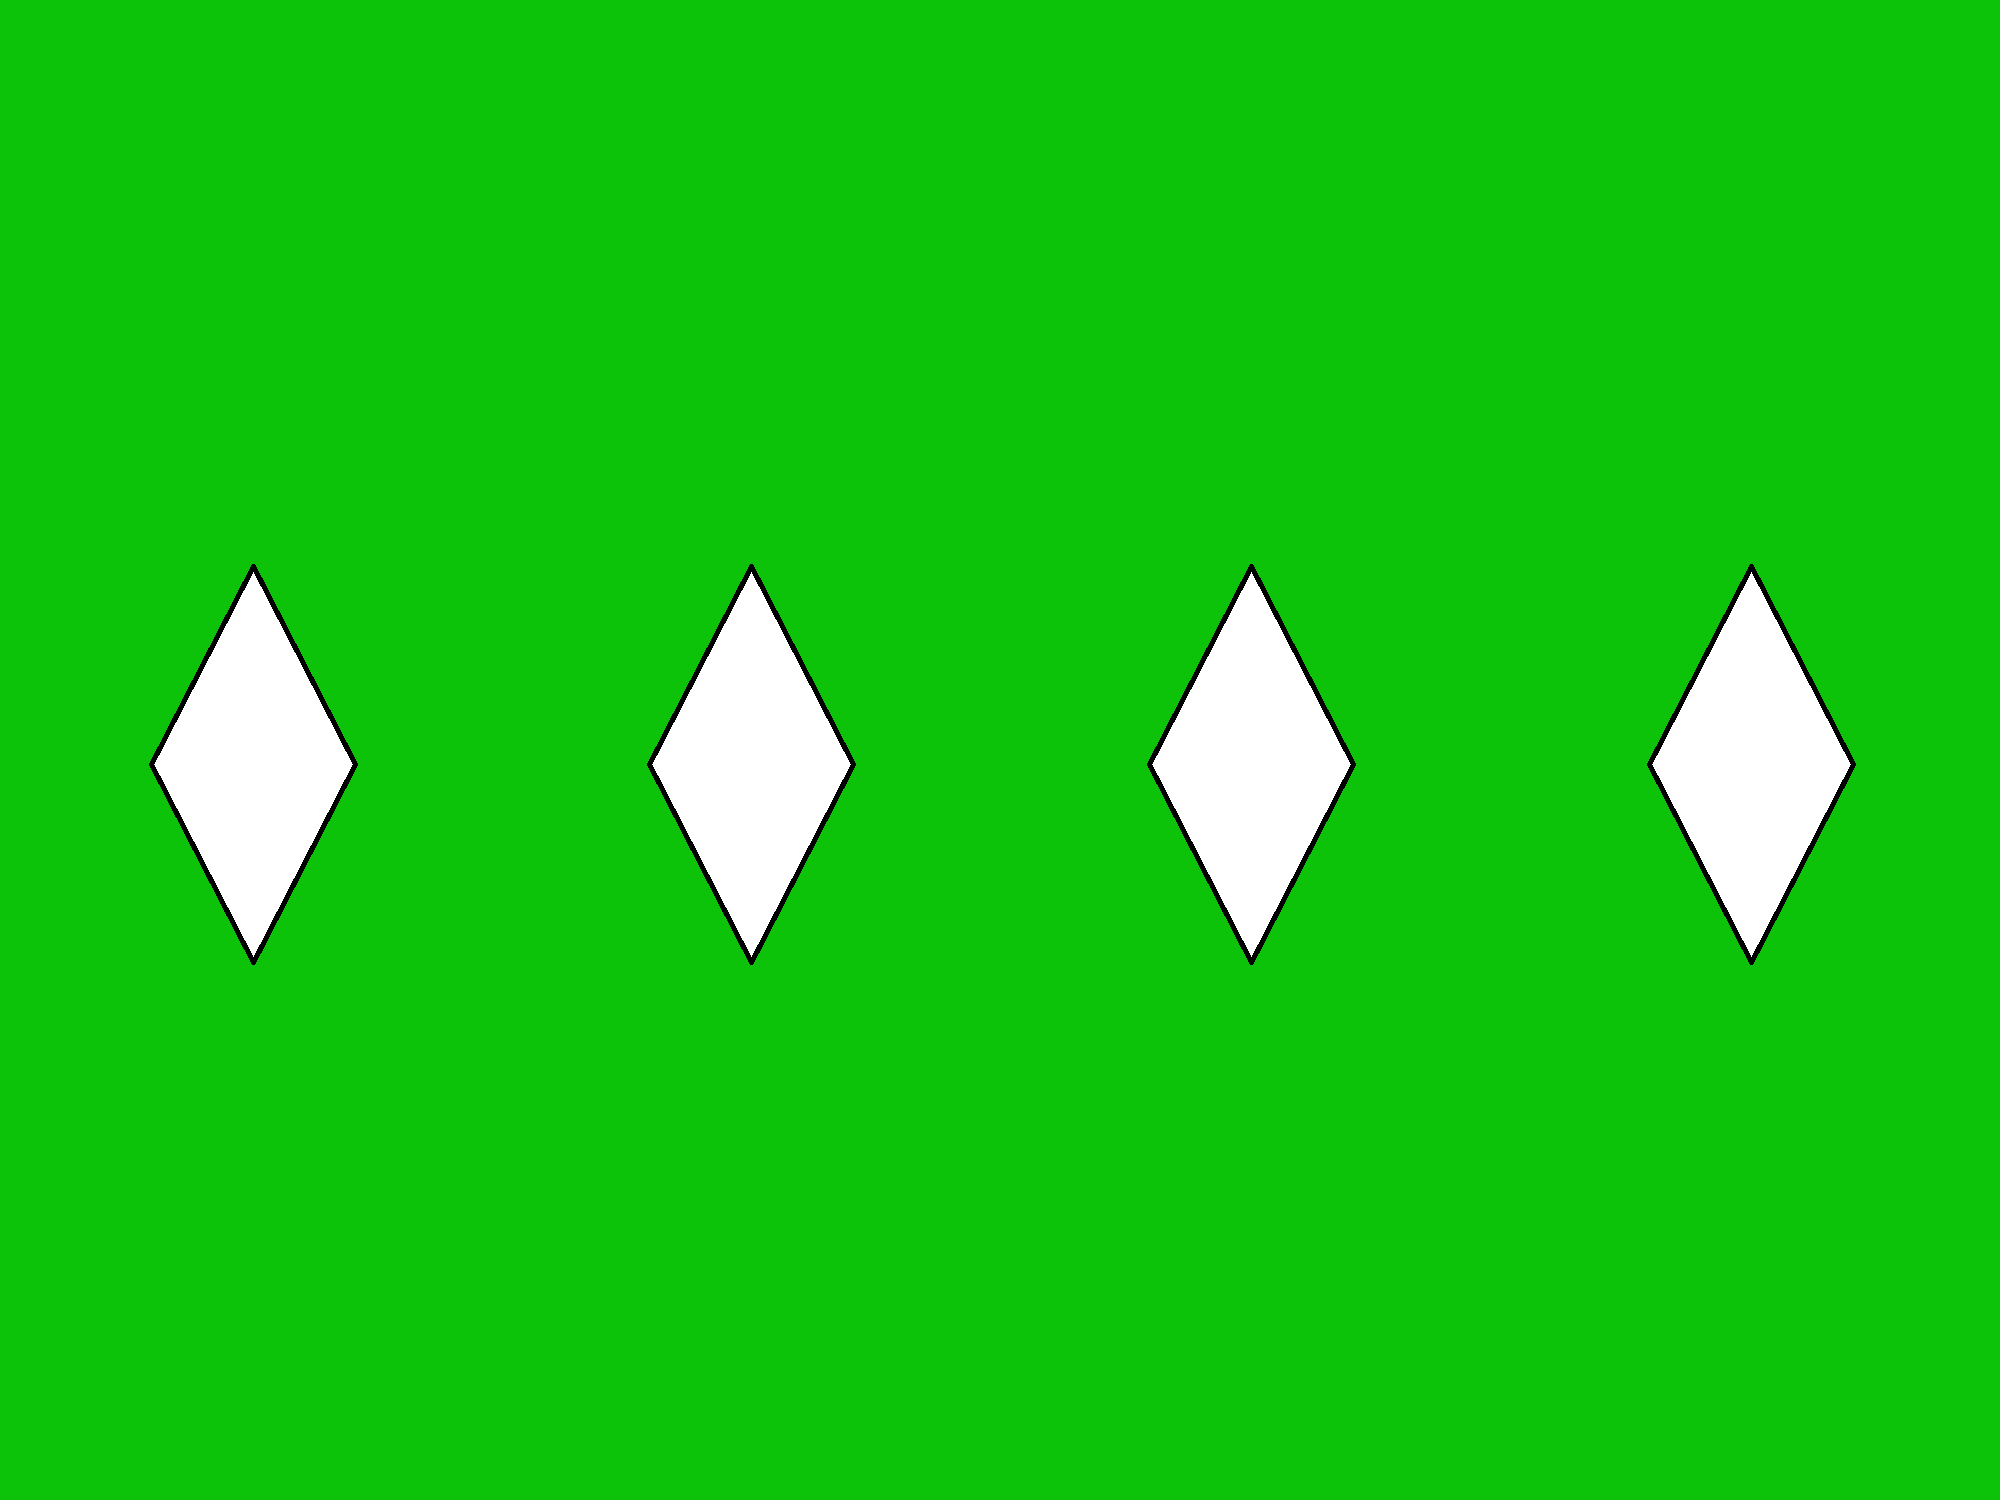
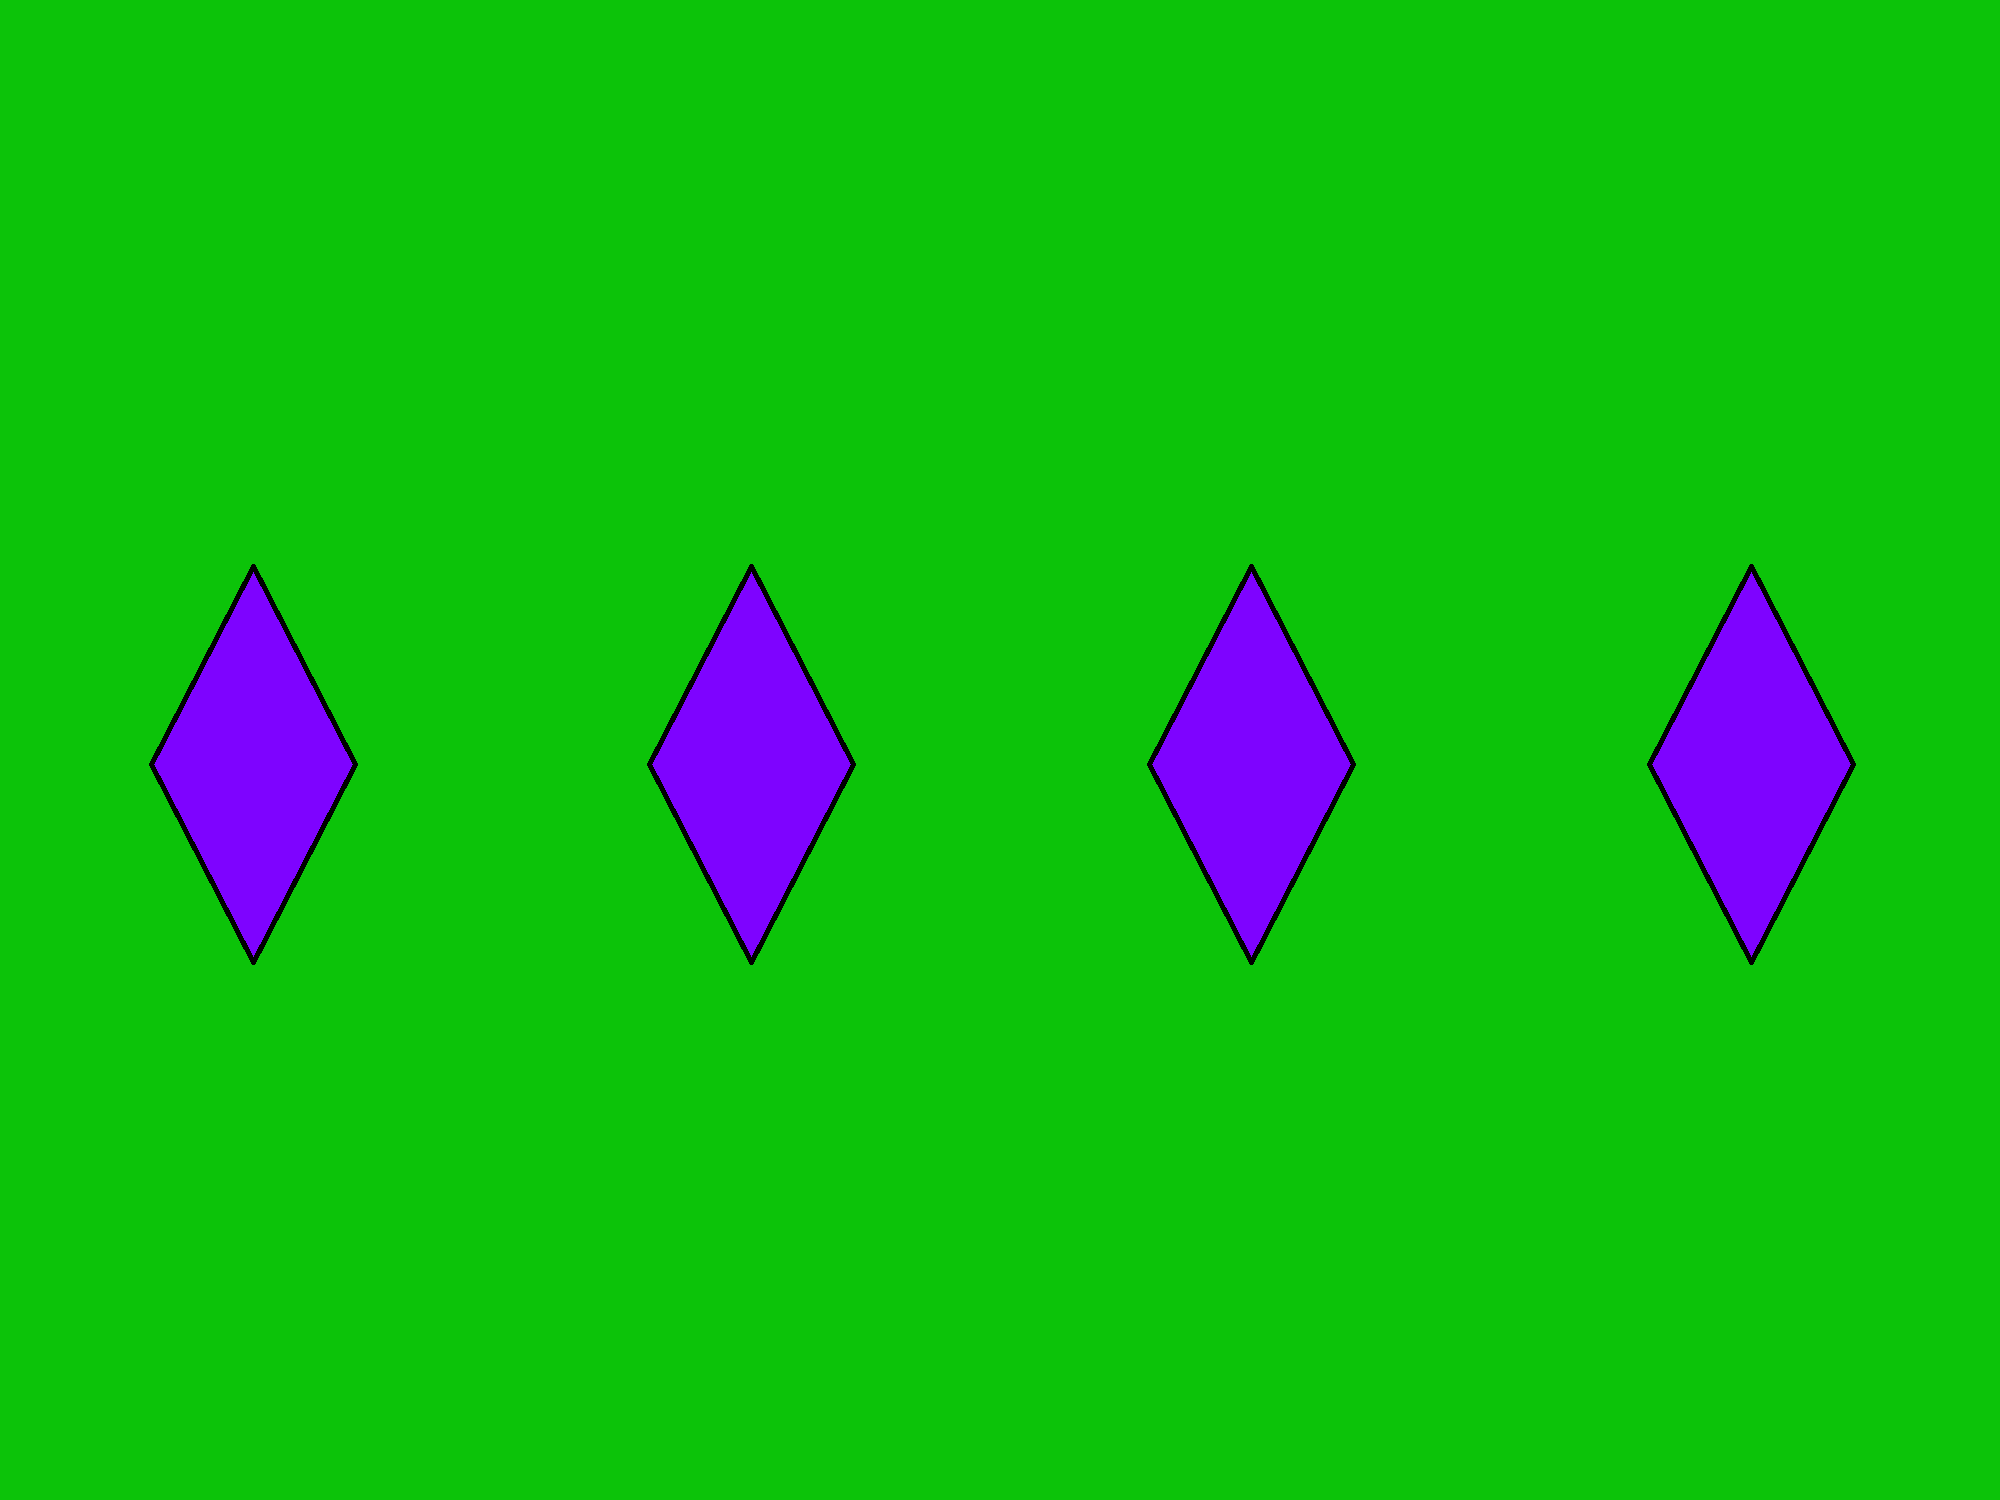
made chaos work chaotically

diff --git a/Duplicator.cpp b/Duplicator.cpp
@@ -5,11 +5,10 @@ Duplicator::Duplicator() {
 	
 	UDManager::getInstance().addUD(this);
 	CollisionManager::getInstance().addObject(this);
-	ourModel = new Model("C:/Users/joefr/source/repos/SconchMath/assets/Models/starCube.obj");
+	ourModel = new Model("C:/Users/joefr/source/repos/SconchMath/assets/Models/DiamondSphere2.obj");
 	shader = ShaderCollection::getInstance().getShader("Model");
 	width = 0.5f;
 	height = 0.5f;
-	tags.push_back("bcube");
 
 }
 
@@ -24,7 +23,7 @@ float Duplicator::randomFloat(float min, float max) {
 void Duplicator::Update() {
 	model = glm::mat4(1.0f);
 	model = glm::translate(model, pos);
-	model = glm::rotate(model, (float)glfwGetTime(), glm::vec3(.3f, .7f, 0.0f));
+	model = glm::rotate(model, (float)glfwGetTime(), glm::vec3(.0f, 1.0f, 0.0f));
 	model = glm::scale(model, scale);
 }
 
@@ -35,6 +34,7 @@ void Duplicator::Collide(Collision col) {
 			cube->setScale(glm::vec3(0.4f));
 			cube->addTag("bcube");
 			cube->setVelocity(glm::normalize(glm::vec3(randomFloat(-1.0f,1.0f), randomFloat(-1.0f,0.0f), 0.0f)) * glm::vec3(0.25f));
+			cube->setRotationOffset(randomFloat(-1.0f, 1.0f));
 
 			UDManager::getInstance().addUD(cube);
 		}

diff --git a/BouncingCube.cpp b/BouncingCube.cpp
@@ -21,6 +21,12 @@ BouncingCube::BouncingCube(std::string path) {
 	cm.addObject(this);
 }
 
+void BouncingCube::setScale(glm::vec3 v) {
+	scale = v;
+	width = scale.x;
+	height = scale.y;
+}
+
 void BouncingCube::win() {
 	velocity = glm::normalize(velocity) * glm::vec3(0.4);
 }
@@ -160,7 +166,7 @@ void BouncingCube::Update() {
 void BouncingCube::Draw(){
 	model = glm::mat4(1.0f);
 	model = glm::translate(model, pos);
-	model = glm::rotate(model, (float)glfwGetTime(), glm::vec3(.3f, .7f, 0.0f));
+	model = glm::rotate(model, (float)glfwGetTime() + rotationOffset, glm::vec3(rotationOffset, .7f, 0.0f));
 	model = glm::scale(model, scale);
 
 

diff --git a/BouncingCube.h b/BouncingCube.h
@@ -42,6 +42,7 @@ private:
 	
 	bool loser = false;
 	float loserScale = 1.0f;
+	float rotationOffset = 0.0f;
 	
 	MyTimer& timer = MyTimer::getInstance();
 
@@ -76,5 +77,9 @@ public:
 	bool getSlow() { return isSlowed; }
 	glm::vec3 getFrozenVelocity() { return frozenVelocity; }
 
+	void setRotationOffset(float f) { rotationOffset = f; }
+
 	PlayerStats& getStats() { return this->stats; }
+
+	void setScale(glm::vec3) override;
 };

diff --git a/UD.h b/UD.h
@@ -30,8 +30,6 @@ public:
 	virtual glm::vec3 getVelocity() { return velocity; }
 	virtual glm::vec3 getScale() { return scale; }
 	virtual glm::vec3 getPos() { return pos; };
-	
-
 
 	virtual void setId(int id) { ID = id; };
 	virtual void setVelocity(glm::vec3 v) { this->velocity = v; }

diff --git a/main.cpp b/main.cpp
@@ -5,7 +5,7 @@ int main()
 
     addGameObjects();
 
-    init();
+    //init();
 
     renderLoop();
 
